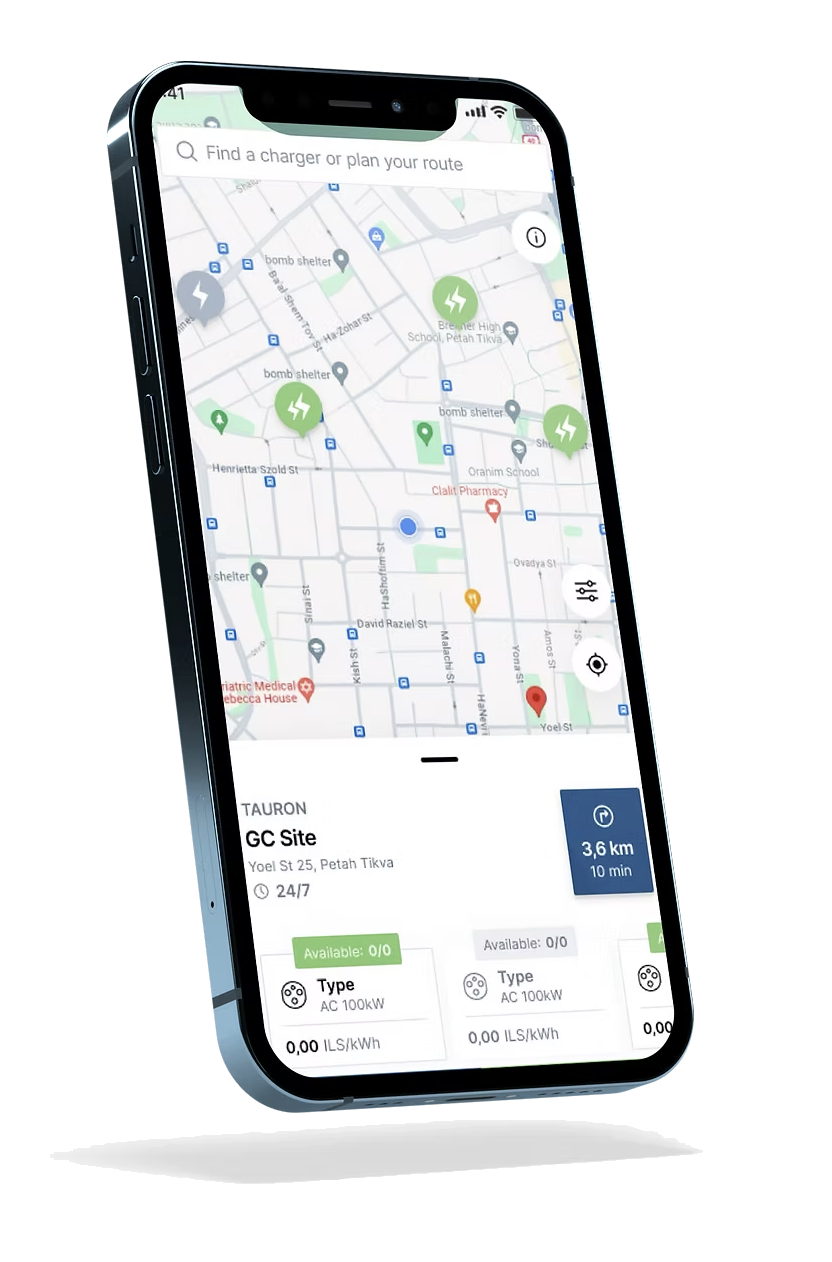
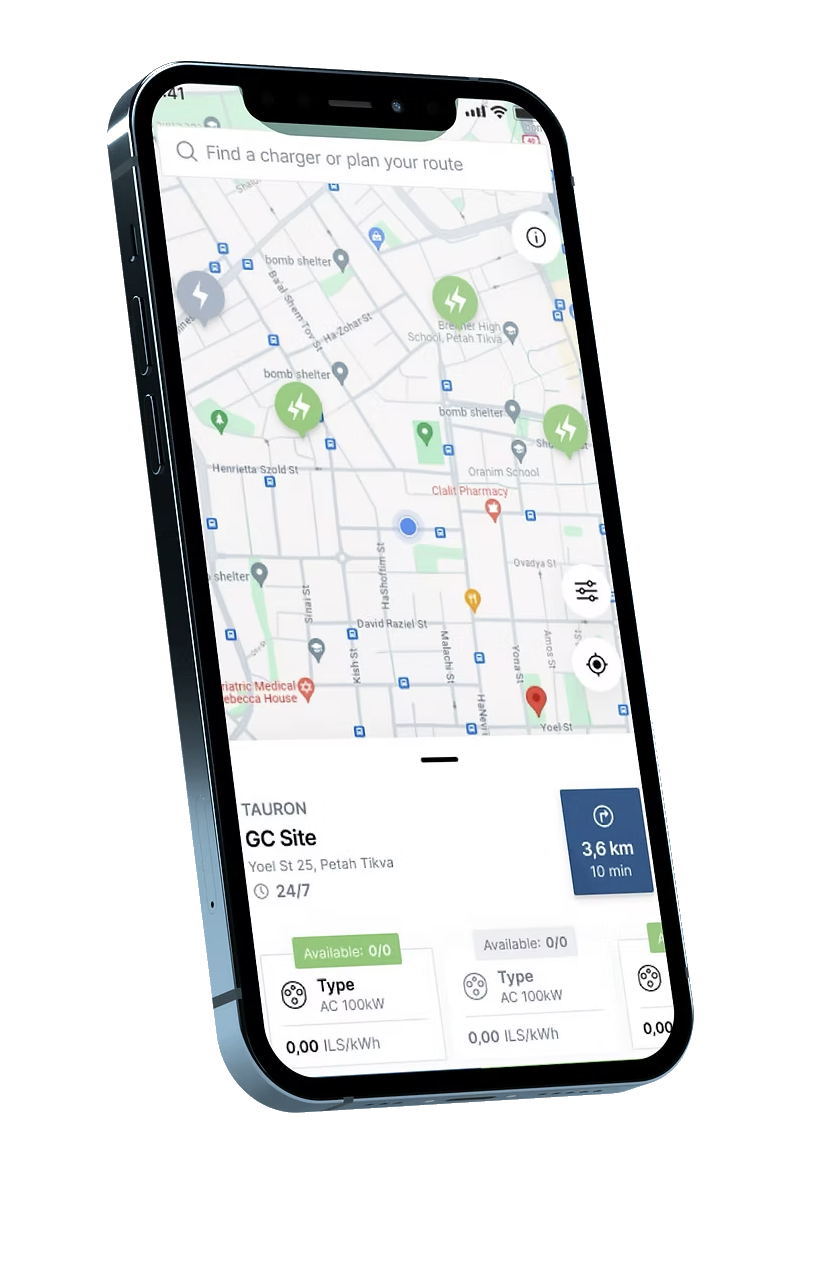
fix: strip phone shadow halo, add EZfleet to partners
Re-run background removal with shadow tolerance (saturation-aware
flood-fill from all border seeds) so the gray drop-shadow halo
around the phone is fully transparent, not just the pure-white core.

Also append EZfleet to the partner apps list (he + en).

Changed region(s): [[0.125, 0.8653, 0.8125, 0.958]]

diff --git a/index.html b/index.html
@@ -1364,8 +1364,8 @@
   </div>
 
   <div class="partners">
-    <span data-lang="he"><strong>גם דרך:</strong> פנגו · סלו · גריבו · ACDC · Ecorgy</span>
-    <span data-lang="en"><strong>Also via:</strong> Pango · Cello · Greevo · ACDC · Ecorgy</span>
+    <span data-lang="he"><strong>גם דרך:</strong> פנגו · סלו · גריבו · ACDC · Ecorgy · EZfleet</span>
+    <span data-lang="en"><strong>Also via:</strong> Pango · Cello · Greevo · ACDC · Ecorgy · EZfleet</span>
   </div>
   </div>
   <div class="app-phone">
